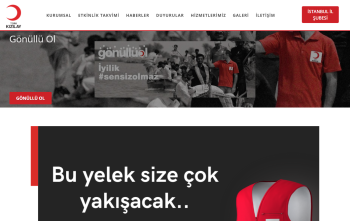
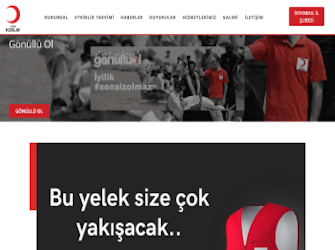
updated kizilay image

diff --git a/index.html b/index.html
@@ -849,7 +849,7 @@
 								<div class="mb-12">
 									<div class="relative group overflow-hidden shadow-service rounded-md">
 										<img
-											src="/media/cpadn244/kizilay-branch.png?width=370&amp;height=270&amp;v=1db005af5dd2890"
+											src="/media/cpadn244/kizilay-branch.png?width=370&amp;height=270&amp;v=fg43yhdfhnbsw34"
 											alt="Kızılay Branch Websites"
 											width="370"
 											height="270"
